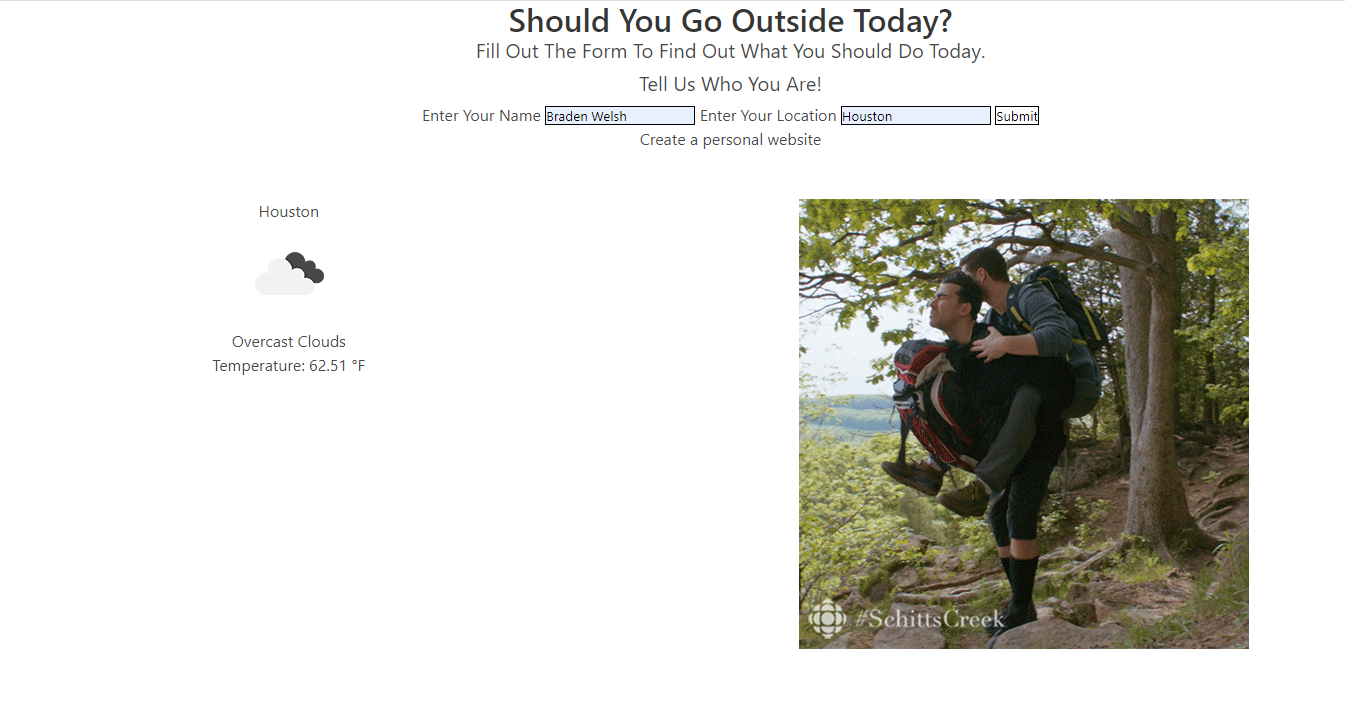
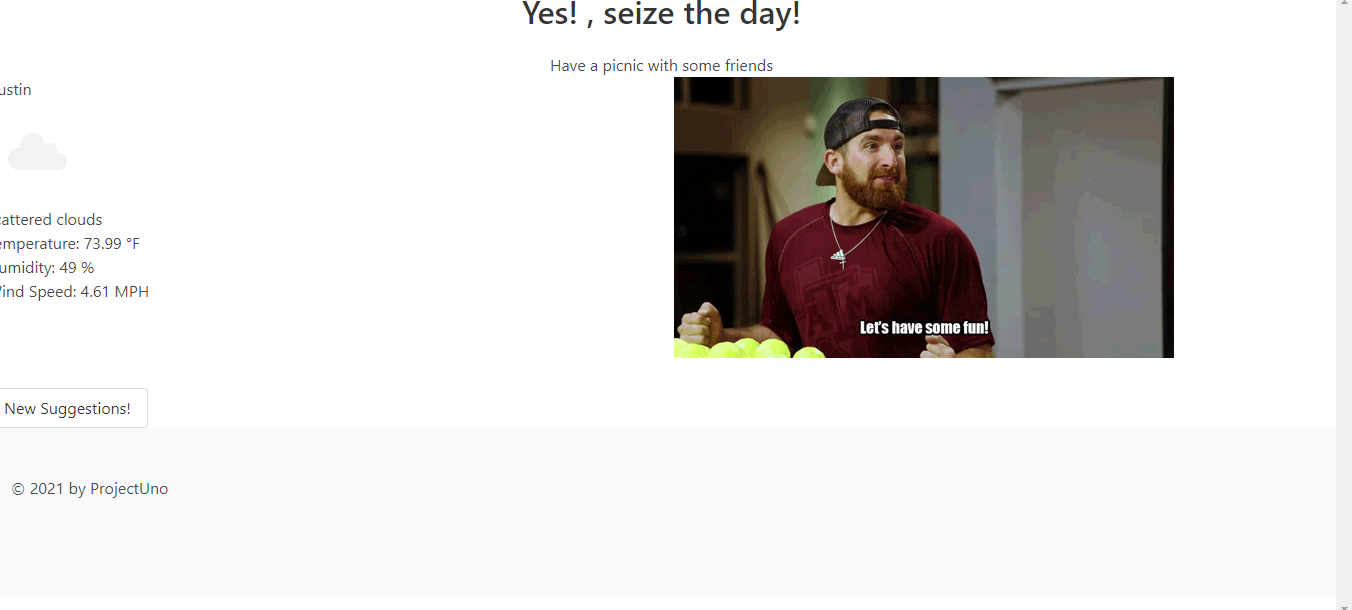
updated README

diff --git a/README.md b/README.md
@@ -1,4 +1,5 @@
 # ProjectUno
 ## **Should I go outside?**
-### This project lets the user see if the weather outside is at the right temperature  to go outside or not, and if the webisite should find it to be too cold or hot outside it will generate a activity to do while indoors.ffdgdfsg 
+### This project lets the user see if the weather outside is at the right temperature  to go outside or not, and if the webisite should find it to be too cold or hot outside it will generate a activity to do while indoors. For the code we used bulma in the html to add style to our website aside from css, we also used javascript to add GIFs and icons to show what the weather is looking like outside
+![screenshot](./assets/images/Site2.0.png)
 ![screenshot](./assets/images/site.png)
